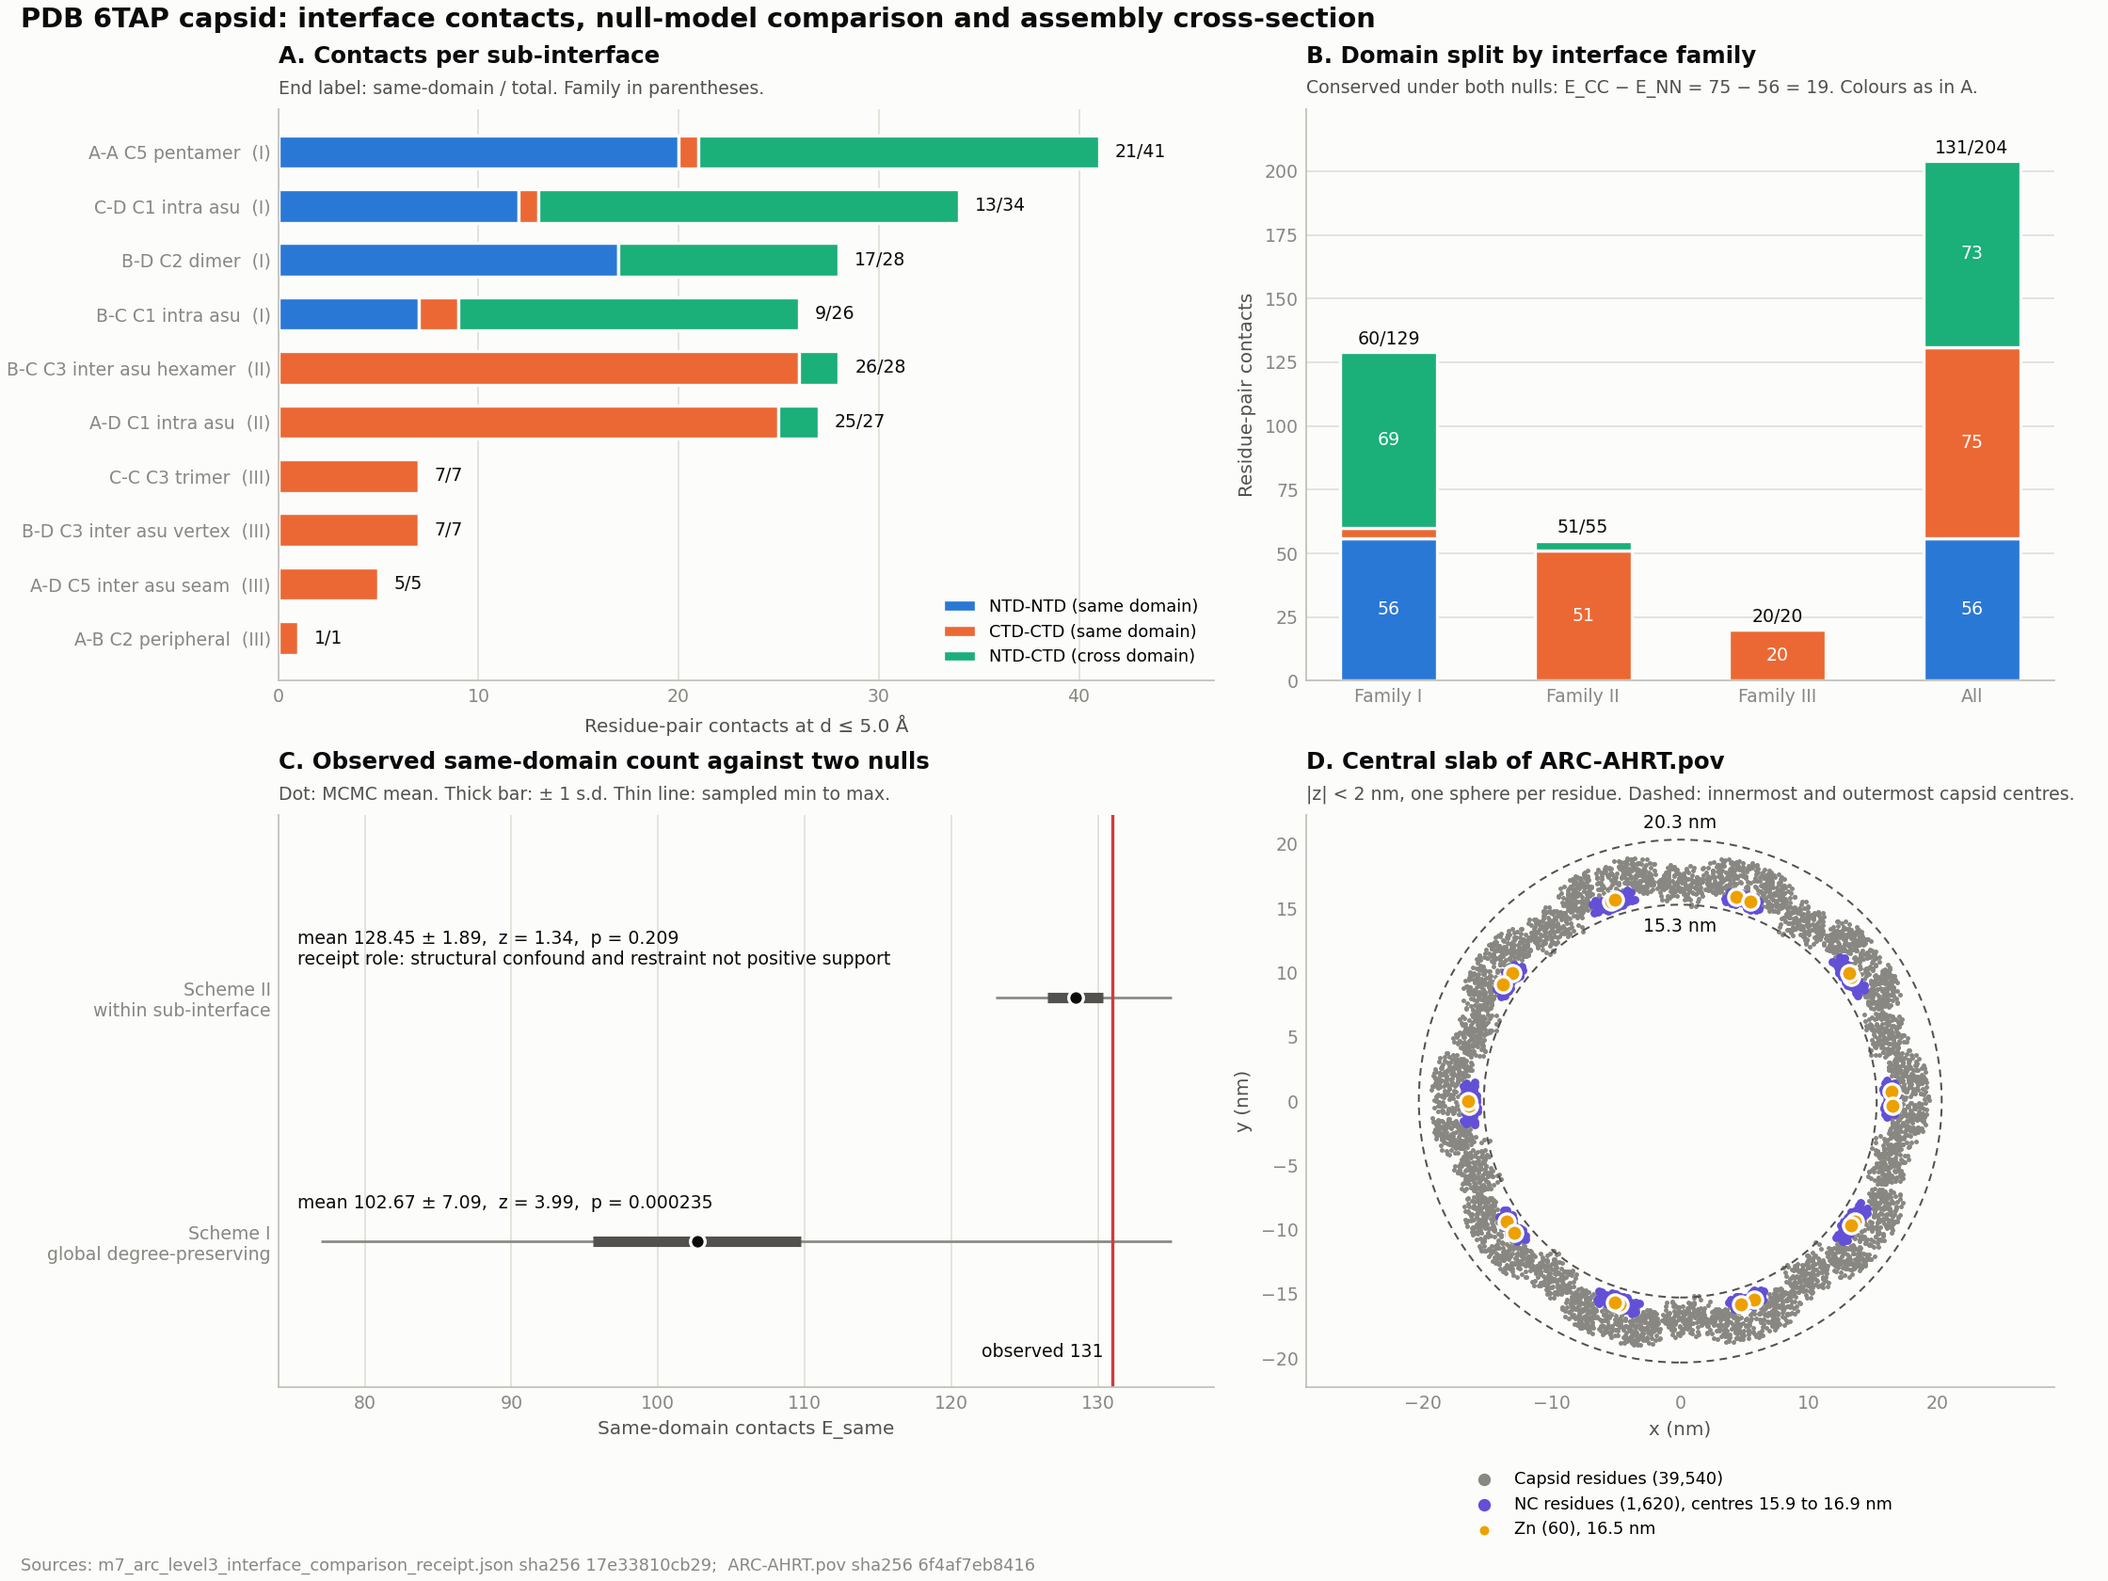
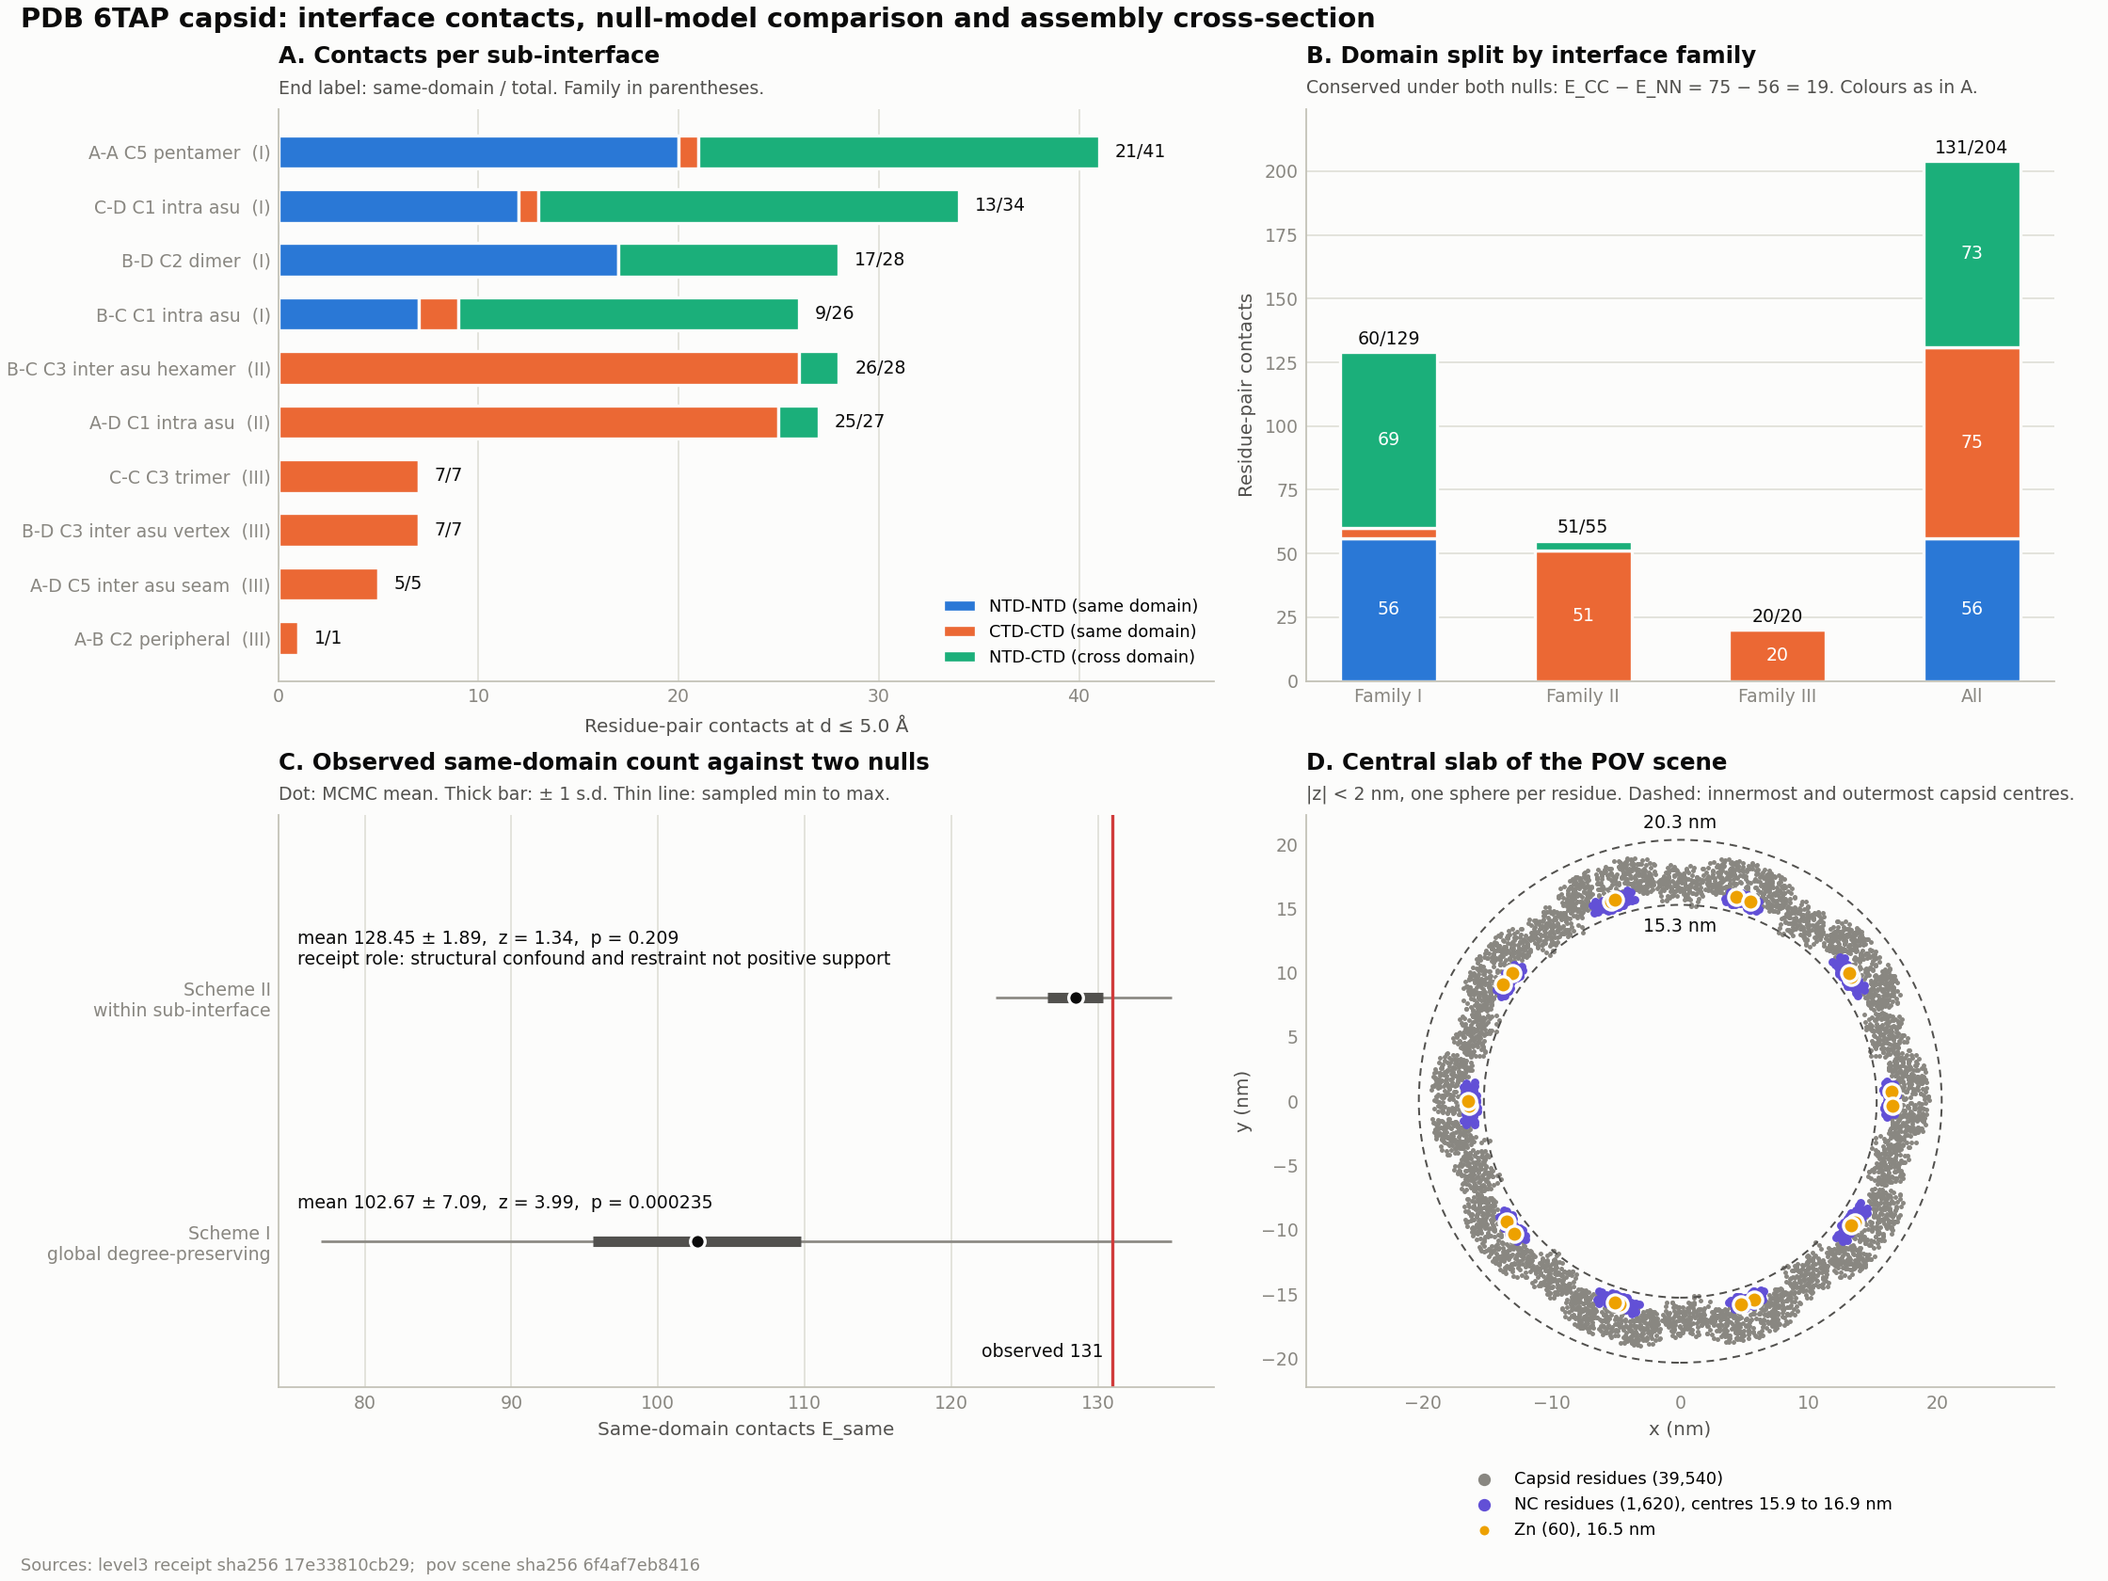
fix(arc-ahrt): close the remaining gate and labelling gaps in the 6TAP renderer
Review follow-ups on PR 1:

- Observed gate: panel C took "observed 131" from Scheme I alone. Both
  null schemes must now record the E_same that the summed rows give, or
  the run aborts.
- Sub-interface sets: a profile with no fingerprint entry (or the
  reverse) now aborts with the gate message instead of a KeyError.
- Inputs are labelled by role (level3_receipt, pov_scene) in the footer,
  panel D's title and the sidecar, so a renamed copy of the POV file
  renders identical bytes. Sidecar schema bumped to v2 for the key change.
- Tests: Scheme II observed-count mismatch, missing fingerprint entry,
  and a synthetic POV scene covering radius-group classification and the
  inventory-mismatch abort (17 tests, all passing).

Writing the POV test showed that count matching cannot catch a capsid
radius group whose size equals the NC or Zn count; read_pov's docstring
now says so and records that the real scene's groups (19,770, 19,770,
1,620, 60) do not collide. Sidecar numbers are unchanged; the figure
hash moves to 2e9984f8.

diff --git a/scripts/render_6tap_interface_figure.py b/scripts/render_6tap_interface_figure.py
@@ -37,6 +37,10 @@ CONTACT = [  # (receipt key, legend label, colour)
     ("NTD_CTD_pairs", "NTD-CTD (cross domain)", "#1baf7a"),
 ]
 NC_COLOR, ZN_COLOR = "#6250d6", "#eda100"
+NULL_SCHEMES = {  # receipt key under the MCMC audit -> axis label in panel C
+    "global_degree_preserving_simple_graph_double_edge_swap_mcmc": "Scheme I\nglobal degree-preserving",
+    "within_subinterface_bipartite_degree_preserving_double_edge_swap_mcmc": "Scheme II\nwithin sub-interface",
+}
 
 SPHERE = re.compile(r"sphere\{<([-\d.eE]+),([-\d.eE]+),([-\d.eE]+)>,\s*([\d.]+)")
 
@@ -69,16 +73,21 @@ def receipt_gates(rows: list[dict], receipt: dict) -> None:
     Sum gate: the rows summed over all sub-interfaces equal the E_NN, E_CC and E_CN
     recorded in the stub-identity section, and that section's derived values
     (E_same, conserved E_CC - E_NN) follow from them.
+    Observed gate: both null schemes record that same E_same as their observed value.
     """
     fingerprints = receipt["symmetry_normalized_residue_fingerprints"]["subinterface_fingerprints"]
     pairs = {f["interface_class"]: f["unique_residue_pair_count_at_5A"] for f in fingerprints}
+    names = {r["name"] for r in rows}
+    if names != pairs.keys():
+        sys.exit(f"receipt disagrees with itself: sub-interfaces only in chemistry profiles "
+                 f"{sorted(names - pairs.keys())}, only in fingerprints {sorted(pairs.keys() - names)}")
     for r in rows:
         total = sum(r[key] for key, _, _ in CONTACT)
         if total != pairs[r["name"]]:
             sys.exit(f"receipt disagrees with itself: {r['name']} profile total {total} "
                      f"!= fingerprint pair count {pairs[r['name']]}")
-    stub = receipt["constrained_graph_state_space_connectivity_and_mcmc_audit"][
-        "stub_difference_conservation_identity"]["empirical_6tap_5A_cutoff_values"]
+    audit = receipt["constrained_graph_state_space_connectivity_and_mcmc_audit"]
+    stub = audit["stub_difference_conservation_identity"]["empirical_6tap_5A_cutoff_values"]
     nn, cc, cn = (sum(r[key] for r in rows) for key, _, _ in CONTACT)
     derived = {"observed_E_NN": nn, "observed_E_CC": cc, "observed_E_CN": cn,
                "observed_E_same": nn + cc, "conserved_E_CC_minus_E_NN": cc - nn}
@@ -86,6 +95,10 @@ def receipt_gates(rows: list[dict], receipt: dict) -> None:
     if derived != recorded:
         sys.exit(f"receipt disagrees with itself: summed rows give {derived}, "
                  f"stub-identity section records {recorded}")
+    observed = {key: audit[key]["observed_same_domain_contacts"] for key in NULL_SCHEMES}
+    if set(observed.values()) != {nn + cc}:
+        sys.exit(f"receipt disagrees with itself: summed rows give E_same {nn + cc}, "
+                 f"null schemes record observed {observed}")
 
 
 def expected_sphere_counts(receipt: dict) -> dict[str, int]:
@@ -104,6 +117,8 @@ def read_pov(path: Path, expected: dict[str, int]) -> dict[str, list[tuple]]:
 
     The export carries no labels, so classes are assigned by matching each
     sphere-radius group's count to the receipt's inventory; a mismatch aborts.
+    Counts alone cannot catch a capsid radius group whose size happens to equal the
+    NC or Zn count; in ARC-AHRT.pov the groups hold 19,770, 19,770, 1,620 and 60, so none does.
     """
     by_radius: dict[float, list[tuple]] = defaultdict(list)
     for lineno, line in enumerate(path.read_text().splitlines(), 1):
@@ -185,11 +200,8 @@ def panel_families(ax, rows: list[dict], stub: dict) -> None:
 
 
 def panel_nulls(ax, audit: dict) -> None:
-    schemes = [
-        ("Scheme I\nglobal degree-preserving", audit["global_degree_preserving_simple_graph_double_edge_swap_mcmc"]),
-        ("Scheme II\nwithin sub-interface", audit["within_subinterface_bipartite_degree_preserving_double_edge_swap_mcmc"]),
-    ]
-    observed = schemes[0][1]["observed_same_domain_contacts"]
+    schemes = [(label, audit[key]) for key, label in NULL_SCHEMES.items()]
+    observed = schemes[0][1]["observed_same_domain_contacts"]  # equal across schemes, per receipt_gates
     for i, (_, s) in enumerate(schemes):
         mean, sd = s["mcmc_mean_same_domain_contacts"], s["mcmc_std_same_domain_contacts"]
         ax.plot([s["mcmc_min_same_domain_contacts"], s["mcmc_max_same_domain_contacts"]], [i, i],
@@ -214,7 +226,7 @@ def panel_nulls(ax, audit: dict) -> None:
           "Dot: MCMC mean. Thick bar: ± 1 s.d. Thin line: sampled min to max.")
 
 
-def panel_pov(ax, classes: dict[str, list[tuple]], pov_name: str) -> dict:
+def panel_pov(ax, classes: dict[str, list[tuple]]) -> dict:
     span = {k: (min(s[3] for s in v), max(s[3] for s in v)) for k, v in classes.items()}
     slab = {k: [s for s in v if abs(s[2]) < SLAB_HALF_NM] for k, v in classes.items()}
     ax.scatter([s[0] for s in slab["capsid"]], [s[1] for s in slab["capsid"]], s=5, color=MUTED,
@@ -236,7 +248,7 @@ def panel_pov(ax, classes: dict[str, list[tuple]], pov_name: str) -> dict:
     legend = ax.legend(loc="upper center", bbox_to_anchor=(0.5, -0.12), fontsize=8, frameon=False)
     for handle in legend.legend_handles:
         handle.set_sizes([36])
-    style(ax, f"D. Central slab of {pov_name}",
+    style(ax, "D. Central slab of the POV scene",
           f"|z| < {SLAB_HALF_NM:g} nm, one sphere per residue. Dashed: innermost and outermost capsid centres.")
     return {k: {"count": len(v), "centre_radius_nm": [round(x, 3) for x in span[k]],
                 "lines": [min(s[4] for s in v), max(s[4] for s in v)], "in_slab": len(slab[k])}
@@ -256,27 +268,29 @@ def main() -> None:
     audit = receipt["constrained_graph_state_space_connectivity_and_mcmc_audit"]
     stub = audit["stub_difference_conservation_identity"]["empirical_6tap_5A_cutoff_values"]
     classes = read_pov(args.pov, expected_sphere_counts(receipt))
-    hashes = {args.receipt.name: sha256(args.receipt), args.pov.name: sha256(args.pov)}
+    # Inputs are named by role, not file name, so a renamed copy renders the same bytes.
+    hashes = {"level3_receipt": sha256(args.receipt), "pov_scene": sha256(args.pov)}
 
     fig, axes = plt.subplots(2, 2, figsize=(14, 10.5), dpi=160, facecolor=SURFACE,
                              gridspec_kw={"width_ratios": [1.25, 1]}, layout="constrained")
     panel_interfaces(axes[0][0], rows)
     panel_families(axes[0][1], rows, stub)
     panel_nulls(axes[1][0], audit)
-    pov_summary = panel_pov(axes[1][1], classes, args.pov.name)
+    pov_summary = panel_pov(axes[1][1], classes)
     fig.suptitle(f"PDB {receipt['mmcif_provenance']['structure_id']} capsid: interface contacts, "
                  "null-model comparison and assembly cross-section",
                  x=0.01, ha="left", fontsize=13, fontweight="bold", color=INK)
-    fig.supxlabel("Sources: " + ";  ".join(f"{n} sha256 {h[:12]}" for n, h in hashes.items()),
+    fig.supxlabel("Sources: " + ";  ".join(f"{n.replace('_', ' ')} sha256 {h[:12]}" for n, h in hashes.items()),
                   x=0.01, ha="left", fontsize=8, color=MUTED)
     fig.savefig(args.out, metadata={"Software": None})
     args.out.with_suffix(".receipt.json").write_text(json.dumps({
-        "schema": "arc-ahrt-6tap-interface-figure-receipt-v1",
+        "schema": "arc-ahrt-6tap-interface-figure-receipt-v2",
         "figure": {"file": args.out.name, "sha256": sha256(args.out)},
         "inputs_sha256": hashes,
         "matplotlib_version": matplotlib.__version__,
-        "reproducibility_note": f"{args.pov.name} is a ChimeraX export that is not tracked in this repository; "
-                                "regenerating the figure needs the input files matching the sha256 values above. "
+        "reproducibility_note": "The POV scene is a ChimeraX export of the 6TAP assembly (ARC-AHRT.pov in the "
+                                "author's checkout) that is not tracked in this repository. Inputs are identified "
+                                "by sha256, not file name; regenerating the figure needs files matching those values. "
                                 "The figure's own sha256 reproduces only under the same matplotlib_version; "
                                 "across versions, compare the numbers in this file instead.",
         "slab_half_thickness_nm": SLAB_HALF_NM,

diff --git a/tests/test_render_6tap_gates.py b/tests/test_render_6tap_gates.py
@@ -1,6 +1,7 @@
 import copy
 import importlib.util
 import json
+import tempfile
 import unittest
 from pathlib import Path
 
@@ -14,25 +15,77 @@ spec.loader.exec_module(render)
 
 
 class ReceiptGateTests(unittest.TestCase):
-    # The renderer must exit 0 on the committed receipt and nonzero on a receipt whose
-    # stub-identity section disagrees with its rows, so an unattended run cannot look green
-    # while printing an error. sys.exit(str) is exit status 1; sys.exit(None) would be 0.
+    # The renderer must exit 0 on the committed receipt and nonzero on a receipt that
+    # disagrees with itself, so an unattended run cannot look green while printing an
+    # error. sys.exit(str) is exit status 1; sys.exit(None) would be 0.
 
     def setUp(self):
         self.receipt = json.loads(RECEIPT.read_text())
+        self.audit = "constrained_graph_state_space_connectivity_and_mcmc_audit"
+
+    def assertGateAborts(self, receipt):
+        with self.assertRaises(SystemExit) as cm:
+            render.receipt_gates(render.interface_rows(receipt), receipt)
+        self.assertNotIn(cm.exception.code, (None, 0))
+        self.assertIn("receipt disagrees with itself", str(cm.exception.code))
 
     def test_real_receipt_passes(self):
         render.receipt_gates(render.interface_rows(self.receipt), self.receipt)
 
     def test_tampered_stub_value_aborts_nonzero(self):
         tampered = copy.deepcopy(self.receipt)
-        stub = tampered["constrained_graph_state_space_connectivity_and_mcmc_audit"][
-            "stub_difference_conservation_identity"]["empirical_6tap_5A_cutoff_values"]
+        stub = tampered[self.audit]["stub_difference_conservation_identity"]["empirical_6tap_5A_cutoff_values"]
         stub["conserved_E_CC_minus_E_NN"] = 35  # the retired value the gate exists to catch
-        with self.assertRaises(SystemExit) as cm:
-            render.receipt_gates(render.interface_rows(tampered), tampered)
+        self.assertGateAborts(tampered)
+
+    def test_scheme_observed_count_mismatch_aborts(self):
+        tampered = copy.deepcopy(self.receipt)
+        key = "within_subinterface_bipartite_degree_preserving_double_edge_swap_mcmc"
+        tampered[self.audit][key]["observed_same_domain_contacts"] = 130
+        self.assertGateAborts(tampered)
+
+    def test_missing_fingerprint_entry_aborts_with_message(self):
+        tampered = copy.deepcopy(self.receipt)
+        tampered["symmetry_normalized_residue_fingerprints"]["subinterface_fingerprints"].pop()
+        self.assertGateAborts(tampered)
+
+
+class PovClassificationTests(unittest.TestCase):
+    # Synthetic scene, coordinates in Angstrom about centre (10, 20, 30). Capsid spheres come
+    # in two radius groups (4 + 2) that match no other class, so both must fold into capsid.
+    CENTRE = (10.0, 20.0, 30.0)
+    SPHERES = (
+        [((s * 100, 0, 0), 3.06) for s in (1, -1)] + [((0, s * 100, 0), 3.06) for s in (1, -1)]
+        + [((0, 0, s * 100), 2.8) for s in (1, -1)]
+        + [((50, 0, 0), 1.9), ((-25, 43.30127, 0), 1.9), ((-25, -43.30127, 0), 1.9)]
+        + [((0, 0, 0), 1.39)]
+    )
+
+    def write_pov(self, tmp):
+        path = Path(tmp) / "scene.pov"
+        lines = ["// synthetic"] + [
+            f"sphere{{<{x + self.CENTRE[0]},{y + self.CENTRE[1]},{z + self.CENTRE[2]}>, {r}}}"
+            for (x, y, z), r in self.SPHERES]
+        path.write_text("\n".join(lines) + "\n")
+        return path
+
+    def test_classes_counts_and_radii(self):
+        with tempfile.TemporaryDirectory() as tmp:
+            classes = render.read_pov(self.write_pov(tmp), {"capsid": 6, "nc": 3, "zn": 1})
+        self.assertEqual({k: len(v) for k, v in classes.items()}, {"capsid": 6, "nc": 3, "zn": 1})
+        for name, radius_nm in (("capsid", 10.0), ("nc", 5.0), ("zn", 0.0)):
+            for sphere in classes[name]:
+                self.assertAlmostEqual(sphere[3], radius_nm, places=4)
+
+    def test_inventory_mismatch_aborts_nonzero(self):
+        # nc=5 matches no radius group, so all nine non-Zn spheres land in capsid against 4.
+        # (nc=4 would not abort: the 4-sphere capsid group would be taken as NC and the totals
+        # would still balance, the coincidence read_pov's docstring warns about.)
+        with tempfile.TemporaryDirectory() as tmp:
+            with self.assertRaises(SystemExit) as cm:
+                render.read_pov(self.write_pov(tmp), {"capsid": 4, "nc": 5, "zn": 1})
         self.assertNotIn(cm.exception.code, (None, 0))
-        self.assertIn("receipt disagrees with itself", str(cm.exception.code))
+        self.assertIn("do not match receipt inventory", str(cm.exception.code))
 
 
 if __name__ == "__main__":
